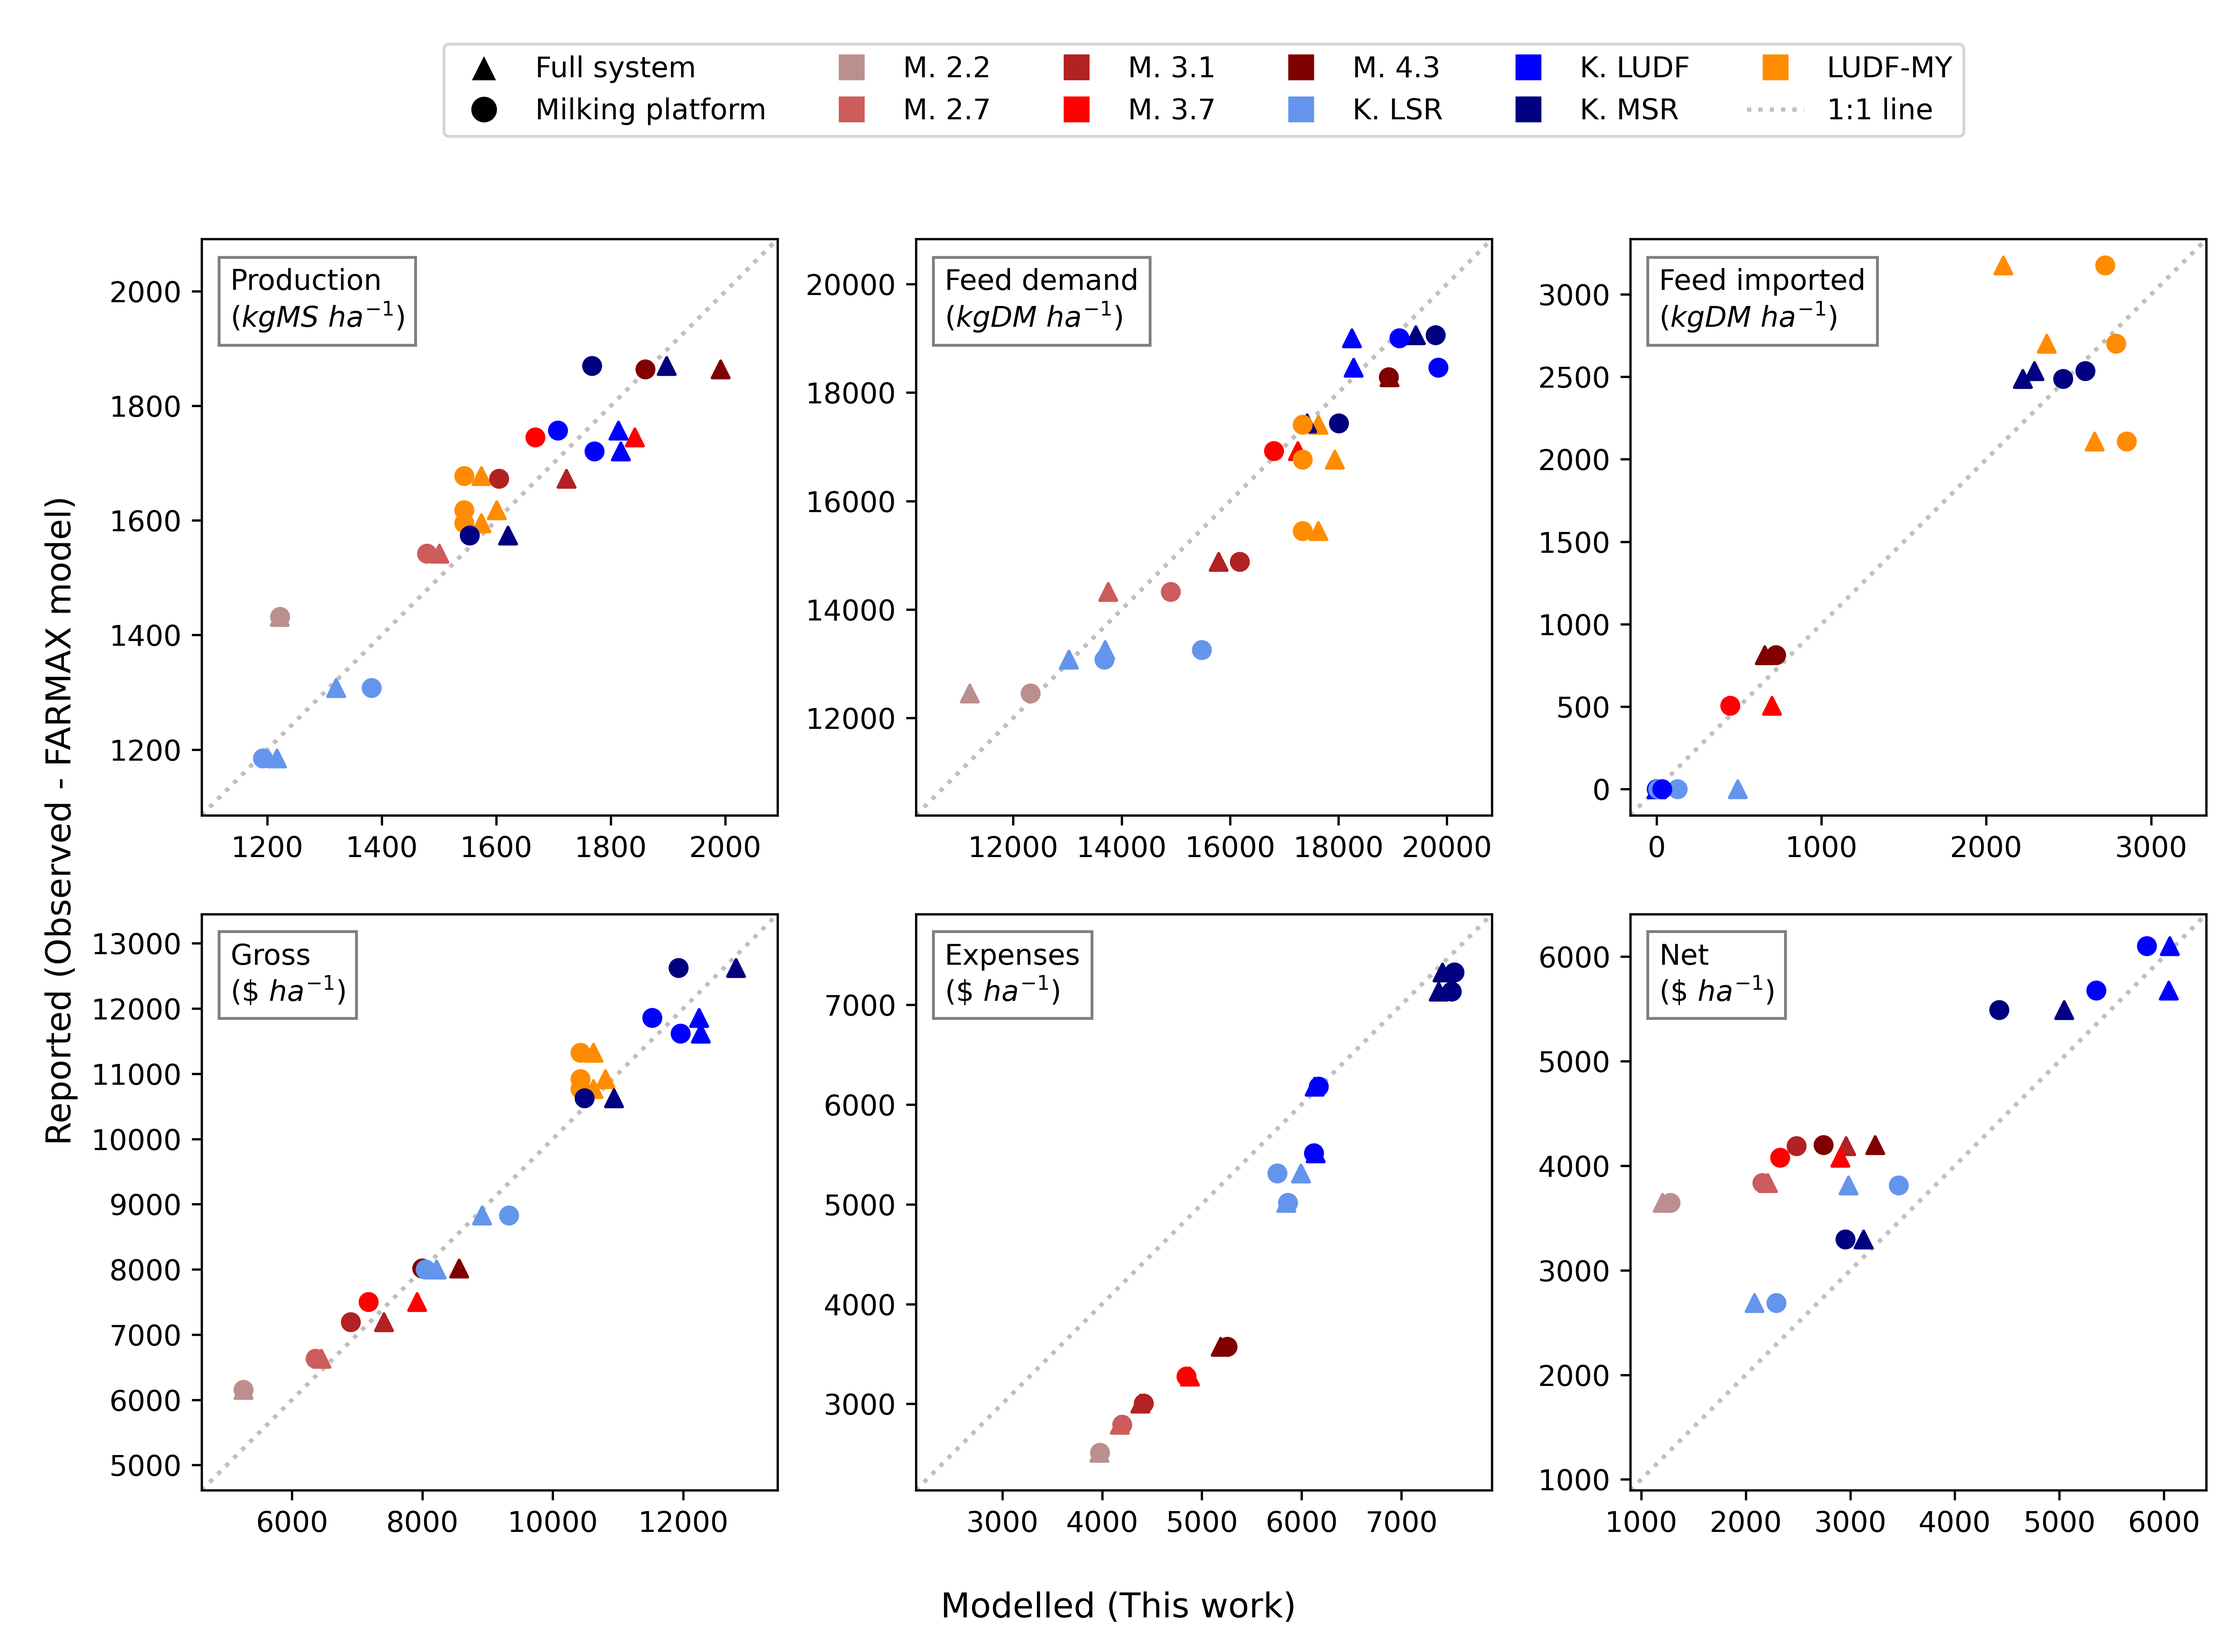
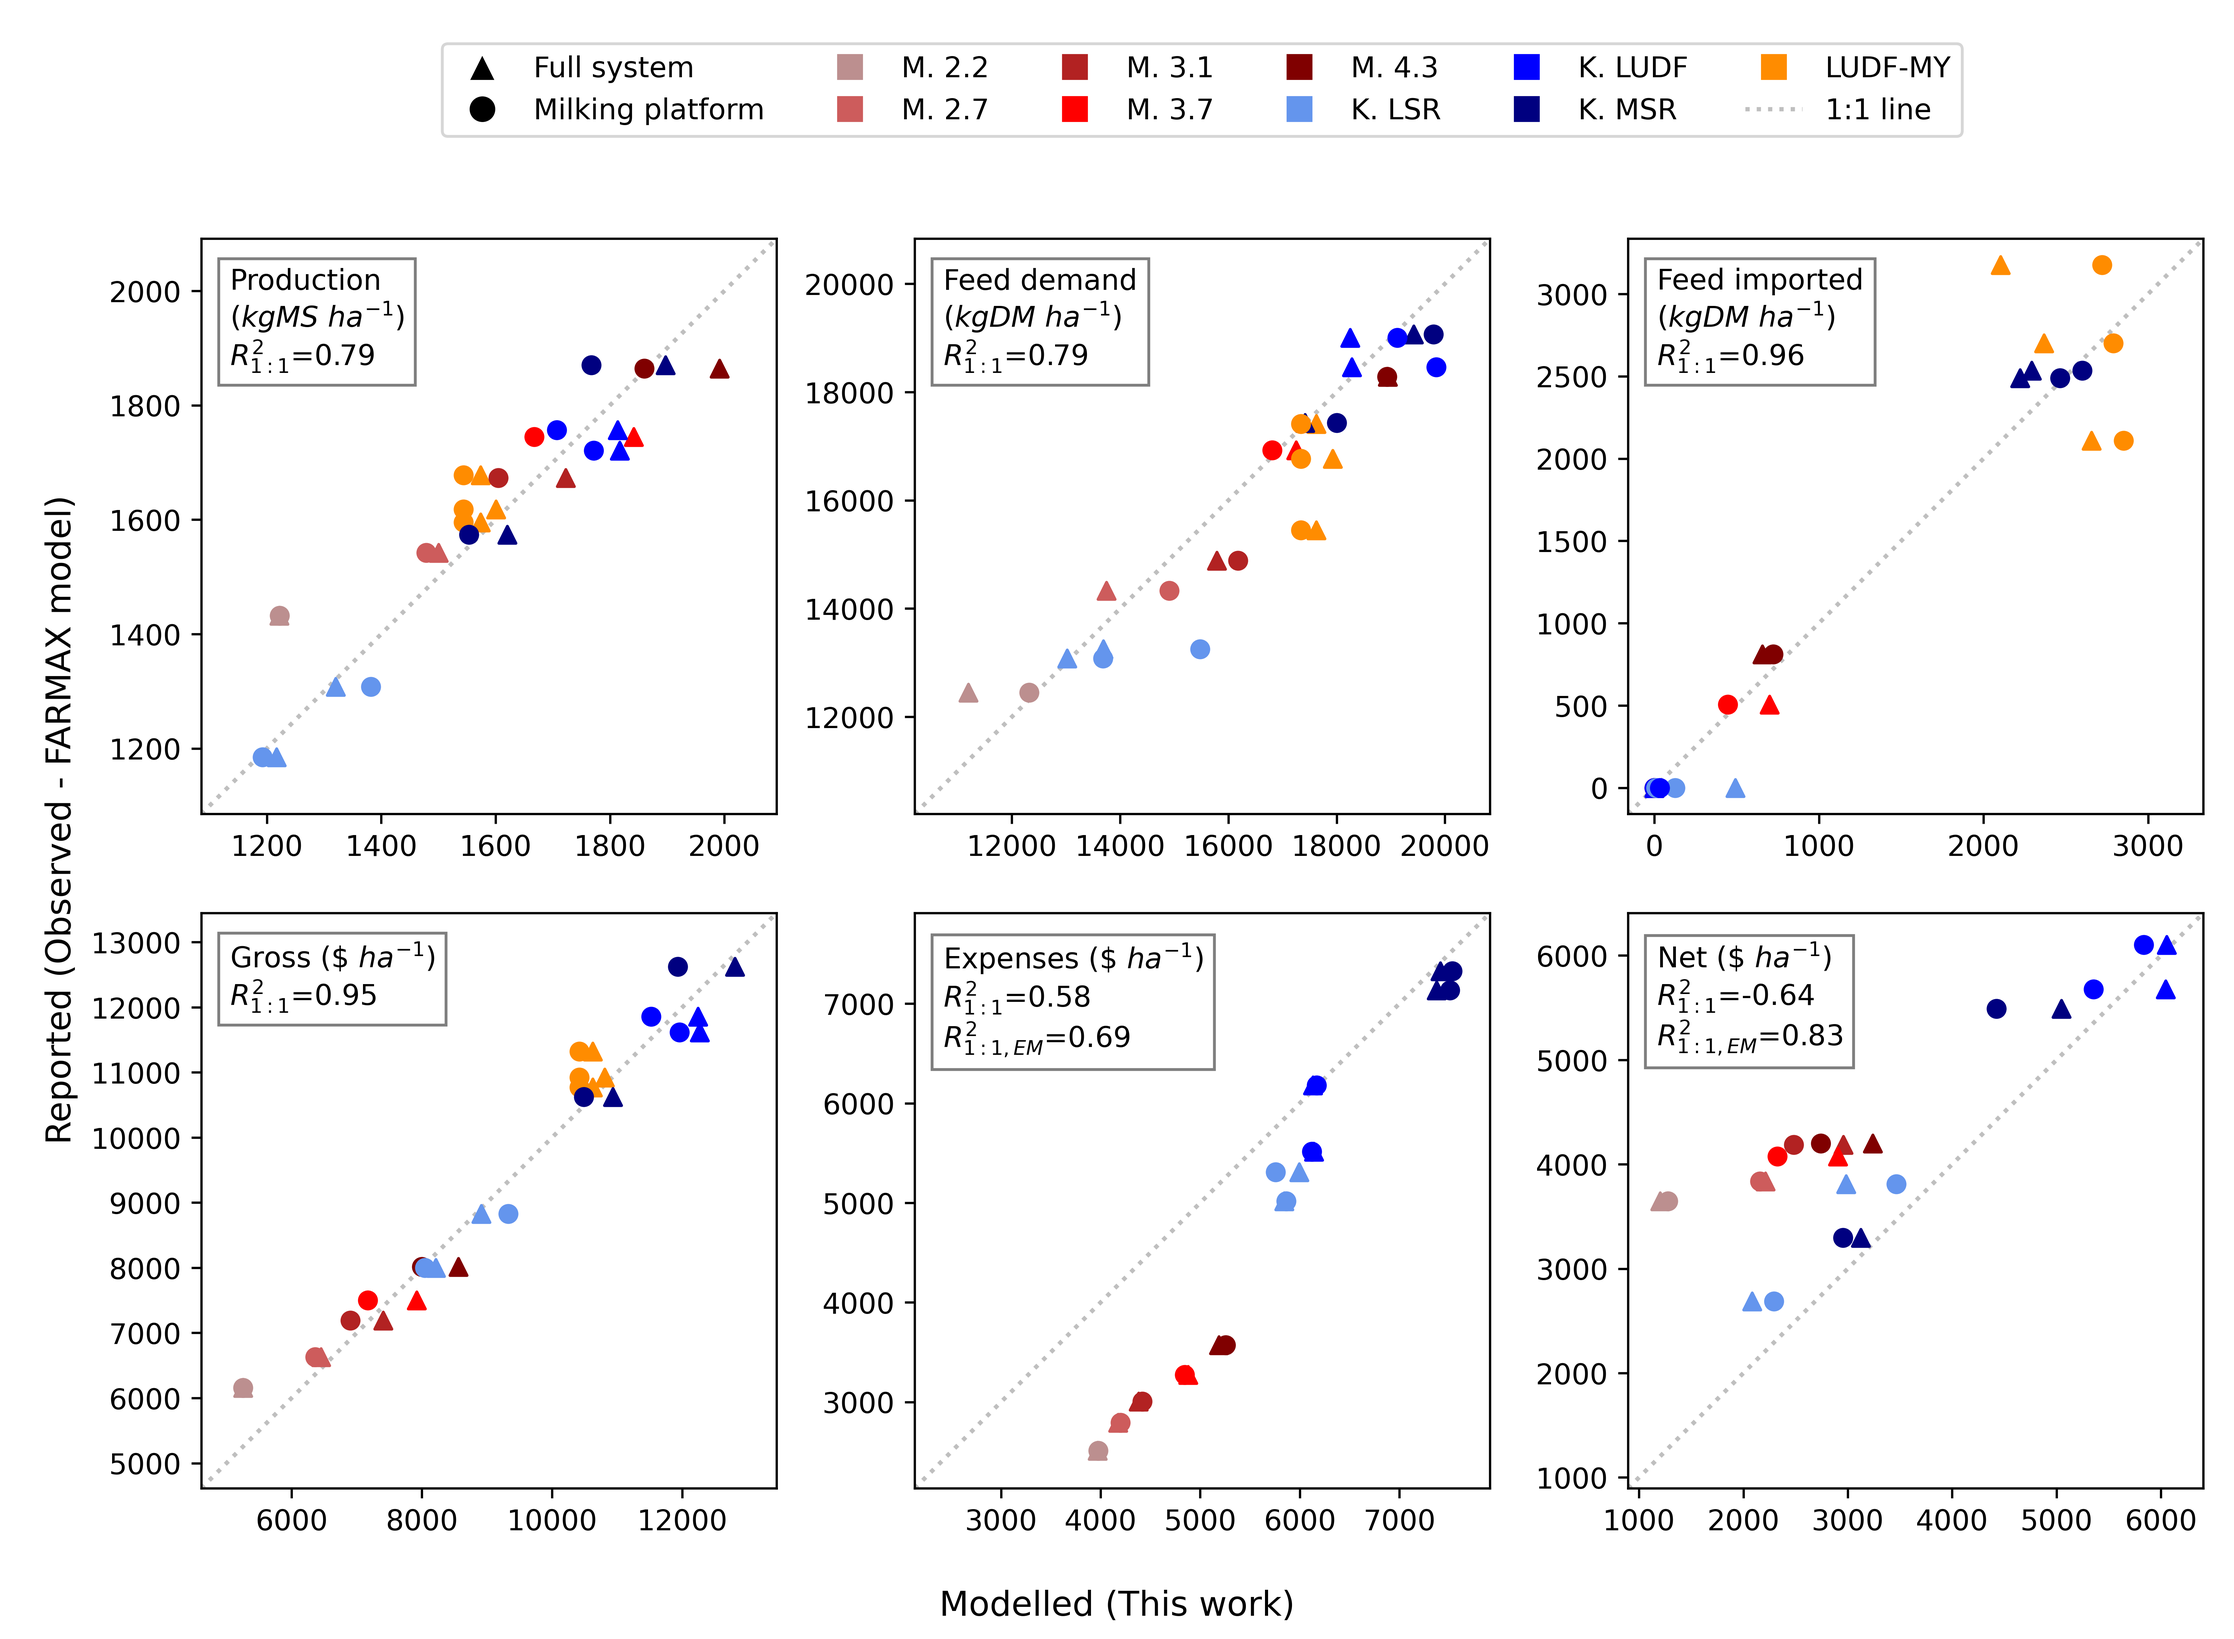
add mae and r2

diff --git a/dairy_model_validataion/validation_overview.py b/dairy_model_validataion/validation_overview.py
@@ -5,7 +5,7 @@ on: 10/13/24
 import numpy as np
 import matplotlib.pyplot as plt
 import pandas as pd
-
+import scipy
 from ludf import raw_full_farm_run as ludf_ff
 from ludf import dairy_platform_run as ludf_mp
 from kok_et_al_2022 import unmodified_comparison as kok_ff
@@ -57,9 +57,9 @@ def make_summary_plot():
     titles = ['Production\n($kgMS~ha^{-1}$)',
               'Feed demand\n($kgDM~ha^{-1}$)',
               'Feed imported\n($kgDM~ha^{-1}$)',
-              'Gross\n($ \\$~ha^{-1}$)',
-              'Expenses\n($ \\$~ha^{-1}$)',
-              'Net\n($ \\$~ha^{-1}$)',
+              'Gross ($ \\$~ha^{-1}$)',
+              'Expenses ($ \\$~ha^{-1}$)',
+              'Net ($ \\$~ha^{-1}$)',
               ]
     keys = [
         'prod',
@@ -94,7 +94,29 @@ def make_summary_plot():
                     lims[key].extend([x, y])
                     ax.scatter(x, y, color=color, marker=marker)
 
-    for t, ax, l in zip(titles, axs, keys):
+    # todo make r2 values and add to titles
+    use_titles = []
+    for key, basetitle in zip(keys, titles):
+        meas = []
+        mod = []
+        study = []
+        for df, st in zip([ludf, mac, kok], ['ludf', 'mac', 'kok']):
+            meas.extend(df[f'{key}_mes'].values)
+            mod.extend(df[f'{key}_mod'].values)
+            study.extend([st]*len(df))
+        meas = np.array(meas)
+        mod = np.array(mod)
+        study = np.array(study)
+        r2 = 1 - (np.nansum((meas - mod) ** 2) / np.nansum((meas - np.nanmean(meas)) ** 2))
+        if key in ['exp','net']:
+            meas_m = meas[study != 'mac']
+            mod_m = mod[study != 'mac']
+            r2_wo_mac = 1 - (np.nansum((meas_m - mod_m) ** 2) / np.nansum((meas_m - np.nanmean(meas_m)) ** 2))
+            use_titles.append(f'{basetitle}\n'+'$R^2_{1:1}$'+f'={r2:.2f}\n'+'$R^2_{1:1, EM}$'+f'={r2_wo_mac:.2f}')
+        else:
+            use_titles.append(f'{basetitle}\n'+'$R^2_{1:1}$'+f'={r2:.2f}')
+
+    for t, ax, l in zip(use_titles, axs, keys):
         ll = np.nanmin(lims[l]) - np.nanmax(lims[l]) * 0.05
         ul = np.nanmax(lims[l]) * 1.05
 
@@ -108,8 +130,8 @@ def make_summary_plot():
     fig.supxlabel('Modelled (This work)')
     fig.supylabel('Reported (Observed - FARMAX model)')
     fig.tight_layout()
-    fig.savefig(Path(__file__).parent.joinpath('summary_plot.png'), dpi=600)
     plt.show()
+    fig.savefig(Path(__file__).parent.joinpath('summary_plot.png'), dpi=600)
 
 
 def print_rmses():
@@ -130,6 +152,7 @@ def print_rmses():
     ]
 
     rmses = pd.DataFrame(dtype=float)
+    mae = pd.DataFrame(dtype=float)
     for lf, mf, kf in zip([ludf_ff, ludf_mp], [mac_ff, mac_mp], [kok_ff, kok_mp]):
         ludf = lf(False)
         kok = kf()
@@ -146,9 +169,13 @@ def print_rmses():
                 y = df[f'{key}_mes']
                 rmse = np.sqrt(np.nanmean((x - y) ** 2))
                 rmses.loc[name, nicekey] = rmse
+                mae_val = np.nanmean(np.abs(x - y))
+                mae.loc[name, nicekey] = mae_val
     rmses = rmses.round(2)
     print('RMSEs:')
     print(rmses)
+    print('MAEs:')
+    print(mae)
     from komanawa.ksl_tools.writeup_support import make_latex_table
 
     s = make_latex_table(None, rmses, frac_txt_width=0.85, table_loc=None, label='rmse',
@@ -157,8 +184,14 @@ def print_rmses():
     with Path.home().joinpath('Downloads','rmse_table.tex').open('w') as f:
         f.write('% made from komanawa-simple-farm-model.validation_overview.print_rmses')
         f.write(s)
+    s = make_latex_table(None, mae, frac_txt_width=0.85, table_loc=None, label='rmse',
+                     caption='Mean absolute errors of the farm model validation',
+                         float_format='{:,.2f}', ksltable=False, )
+    with Path.home().joinpath('Downloads','mae_table.tex').open('w') as f:
+        f.write('% made from komanawa-simple-farm-model.validation_overview.print_rmses')
+        f.write(s)
 
 
 if __name__ == '__main__':
-    #make_summary_plot()
+    make_summary_plot()
     print_rmses()
